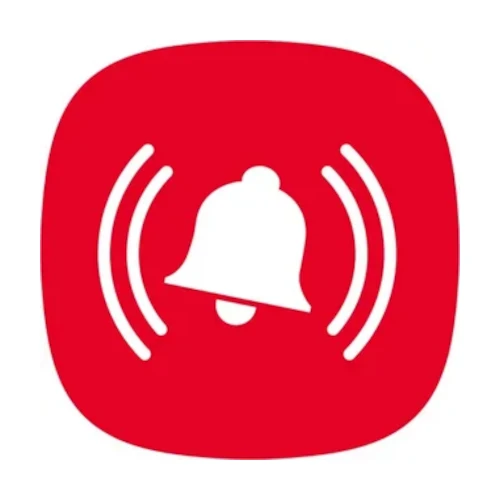
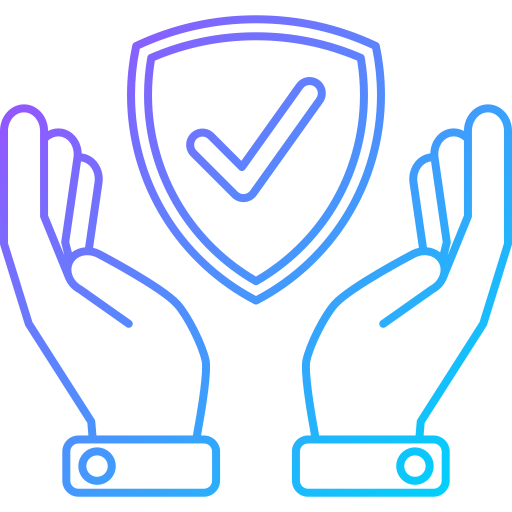
Updates

diff --git a/404.html b/404.html
@@ -1,8 +1,8 @@
-<!doctype html><html lang="ru"><head><meta charset="UTF-8"/><meta name="viewport" content="width=device-width,user-scalable=no,initial-scale=1,maximum-scale=1,minimum-scale=1,viewport-fit=cover"/><meta http-equiv="X-UA-Compatible" content="ie=edge"/><title>Сервисы региона</title><meta property="og:description" content="Сервисы региона"/><meta name="theme-color" content="#000"/><script src="https://st.max.ru/js/max-web-app.js"></script><link rel="preload" href="/ryazanskaya_oblast_bot/static/fonts/SFProText-Regular.woff2" as="font" type="font/woff2" crossorigin="anonymous"/><link rel="preload" href="/ryazanskaya_oblast_bot/static/fonts/SFProText-Medium.woff2" as="font" type="font/woff2" crossorigin="anonymous"/><link rel="preload" href="/ryazanskaya_oblast_bot/static/fonts/SFProText-Semibold.woff2" as="font" type="font/woff2" crossorigin="anonymous"/><link rel="preload" href="https://public-data.hb.bizmrg.com/fonts/VKSansDisplay/VKSansDisplay-Medium.woff2" as="font" type="font/woff2" crossorigin="anonymous"/><link rel="preload" href="https://public-data.hb.bizmrg.com/fonts/VKSansDisplay/VKSansDisplay-DemiBold.woff2" as="font" type="font/woff2" crossorigin="anonymous"/><style>@font-face{font-family:"Max Sans";src:local("Max Sans"),url("/ryazanskaya_oblast_bot/static/fonts/MaxSans-Regular.ttf") format("truetype");font-weight:400;font-style:normal;font-display:swap}@font-face{font-family:"Max Sans";src:local("Max Sans"),url("/ryazanskaya_oblast_bot/static/fonts/MaxSans-Medium.ttf") format("truetype");font-weight:500;font-style:normal;font-display:swap}@font-face{font-family:"SF Pro Text";src:local("SF Pro Text"),url("/ryazanskaya_oblast_bot/static/fonts/SFProText-Regular.woff2") format("woff2");font-weight:400;font-style:normal;font-display:swap}@font-face{font-family:"SF Pro Text";src:local("SF Pro Text"),url("/ryazanskaya_oblast_bot/static/fonts/SFProText-Medium.woff2") format("woff2");font-weight:500;font-style:normal;font-display:swap}@font-face{font-family:"SF Pro Text";src:local("SF Pro Text"),url("/ryazanskaya_oblast_bot/static/fonts/SFProText-Semibold.woff2") format("woff2");font-weight:600;font-style:normal;font-display:swap}@font-face{font-family:"VK Sans Display";src:local("VK Sans Display"),url("https://public-data.hb.bizmrg.com/fonts/VKSansDisplay/VKSansDisplay-Medium.woff2") format("woff2");font-weight:500;font-style:normal;font-display:swap}@font-face{font-family:"VK Sans Display";src:local("VK Sans Display"),url("https://public-data.hb.bizmrg.com/fonts/VKSansDisplay/VKSansDisplay-DemiBold.woff2") format("woff2");font-weight:600;font-style:normal;font-display:swap}</style><script type="module" crossorigin src="/ryazanskaya_oblast_bot/static/index-BUzAMyro.js"></script><link rel="stylesheet" crossorigin href="/ryazanskaya_oblast_bot/static/index-ecivMr12.css"><script type="module">import.meta.url;import("_").catch(()=>1);(async function*(){})().next();if(location.protocol!="file:"){window.__vite_is_modern_browser=true}</script><script type="module">!function(){if(window.__vite_is_modern_browser)return;console.warn("vite: loading legacy chunks, syntax error above and the same error below should be ignored");var e=document.getElementById("vite-legacy-polyfill"),n=document.createElement("script");n.src=e.src,n.onload=function(){System.import(document.getElementById('vite-legacy-entry').getAttribute('data-src'))},document.body.appendChild(n)}();</script></head><body><script>(function () {
+<!doctype html><html lang="ru"><head><meta charset="UTF-8"/><meta name="viewport" content="width=device-width,user-scalable=no,initial-scale=1,maximum-scale=1,minimum-scale=1,viewport-fit=cover"/><meta http-equiv="X-UA-Compatible" content="ie=edge"/><title>Сервисы региона</title><meta property="og:description" content="Сервисы региона"/><meta name="theme-color" content="#000"/><script src="https://st.max.ru/js/max-web-app.js"></script><link rel="preload" href="/ryazanskaya_oblast_bot/static/fonts/SFProText-Regular.woff2" as="font" type="font/woff2" crossorigin="anonymous"/><link rel="preload" href="/ryazanskaya_oblast_bot/static/fonts/SFProText-Medium.woff2" as="font" type="font/woff2" crossorigin="anonymous"/><link rel="preload" href="/ryazanskaya_oblast_bot/static/fonts/SFProText-Semibold.woff2" as="font" type="font/woff2" crossorigin="anonymous"/><link rel="preload" href="https://public-data.hb.bizmrg.com/fonts/VKSansDisplay/VKSansDisplay-Medium.woff2" as="font" type="font/woff2" crossorigin="anonymous"/><link rel="preload" href="https://public-data.hb.bizmrg.com/fonts/VKSansDisplay/VKSansDisplay-DemiBold.woff2" as="font" type="font/woff2" crossorigin="anonymous"/><style>@font-face{font-family:"Max Sans";src:local("Max Sans"),url("/ryazanskaya_oblast_bot/static/fonts/MaxSans-Regular.ttf") format("truetype");font-weight:400;font-style:normal;font-display:swap}@font-face{font-family:"Max Sans";src:local("Max Sans"),url("/ryazanskaya_oblast_bot/static/fonts/MaxSans-Medium.ttf") format("truetype");font-weight:500;font-style:normal;font-display:swap}@font-face{font-family:"SF Pro Text";src:local("SF Pro Text"),url("/ryazanskaya_oblast_bot/static/fonts/SFProText-Regular.woff2") format("woff2");font-weight:400;font-style:normal;font-display:swap}@font-face{font-family:"SF Pro Text";src:local("SF Pro Text"),url("/ryazanskaya_oblast_bot/static/fonts/SFProText-Medium.woff2") format("woff2");font-weight:500;font-style:normal;font-display:swap}@font-face{font-family:"SF Pro Text";src:local("SF Pro Text"),url("/ryazanskaya_oblast_bot/static/fonts/SFProText-Semibold.woff2") format("woff2");font-weight:600;font-style:normal;font-display:swap}@font-face{font-family:"VK Sans Display";src:local("VK Sans Display"),url("https://public-data.hb.bizmrg.com/fonts/VKSansDisplay/VKSansDisplay-Medium.woff2") format("woff2");font-weight:500;font-style:normal;font-display:swap}@font-face{font-family:"VK Sans Display";src:local("VK Sans Display"),url("https://public-data.hb.bizmrg.com/fonts/VKSansDisplay/VKSansDisplay-DemiBold.woff2") format("woff2");font-weight:600;font-style:normal;font-display:swap}</style><script type="module" crossorigin src="/ryazanskaya_oblast_bot/static/index-8lGLBzcs.js"></script><link rel="stylesheet" crossorigin href="/ryazanskaya_oblast_bot/static/index-ecivMr12.css"><script type="module">import.meta.url;import("_").catch(()=>1);(async function*(){})().next();if(location.protocol!="file:"){window.__vite_is_modern_browser=true}</script><script type="module">!function(){if(window.__vite_is_modern_browser)return;console.warn("vite: loading legacy chunks, syntax error above and the same error below should be ignored");var e=document.getElementById("vite-legacy-polyfill"),n=document.createElement("script");n.src=e.src,n.onload=function(){System.import(document.getElementById('vite-legacy-entry').getAttribute('data-src'))},document.body.appendChild(n)}();</script></head><body><script>(function () {
         var isDev = 'false';
         var url = new URL(window.location.href);
         if (isDev && !url.searchParams.has('tmr_debug')) {
           url.searchParams.set('tmr_debug', '1');
           window.location.replace(url.toString());
         }
-      })();</script><div id="root"></div><div id="modal"></div><script nomodule>!function(){var e=document,t=e.createElement("script");if(!("noModule"in t)&&"onbeforeload"in t){var n=!1;e.addEventListener("beforeload",(function(e){if(e.target===t)n=!0;else if(!e.target.hasAttribute("nomodule")||!n)return;e.preventDefault()}),!0),t.type="module",t.src=".",e.head.appendChild(t),t.remove()}}();</script><script nomodule crossorigin id="vite-legacy-polyfill" src="/ryazanskaya_oblast_bot/static/polyfills-legacy-DVAFCpP-.js"></script><script nomodule crossorigin id="vite-legacy-entry" data-src="/ryazanskaya_oblast_bot/static/index-legacy-BmbIadwP.js">System.import(document.getElementById('vite-legacy-entry').getAttribute('data-src'))</script></body></html>
+      })();</script><div id="root"></div><div id="modal"></div><script nomodule>!function(){var e=document,t=e.createElement("script");if(!("noModule"in t)&&"onbeforeload"in t){var n=!1;e.addEventListener("beforeload",(function(e){if(e.target===t)n=!0;else if(!e.target.hasAttribute("nomodule")||!n)return;e.preventDefault()}),!0),t.type="module",t.src=".",e.head.appendChild(t),t.remove()}}();</script><script nomodule crossorigin id="vite-legacy-polyfill" src="/ryazanskaya_oblast_bot/static/polyfills-legacy-DVAFCpP-.js"></script><script nomodule crossorigin id="vite-legacy-entry" data-src="/ryazanskaya_oblast_bot/static/index-legacy-C-Urdjbc.js">System.import(document.getElementById('vite-legacy-entry').getAttribute('data-src'))</script></body></html>

diff --git a/index.html b/index.html
@@ -1,8 +1,8 @@
-<!doctype html><html lang="ru"><head><meta charset="UTF-8"/><meta name="viewport" content="width=device-width,user-scalable=no,initial-scale=1,maximum-scale=1,minimum-scale=1,viewport-fit=cover"/><meta http-equiv="X-UA-Compatible" content="ie=edge"/><title>Сервисы региона</title><meta property="og:description" content="Сервисы региона"/><meta name="theme-color" content="#000"/><script src="https://st.max.ru/js/max-web-app.js"></script><link rel="preload" href="/ryazanskaya_oblast_bot/static/fonts/SFProText-Regular.woff2" as="font" type="font/woff2" crossorigin="anonymous"/><link rel="preload" href="/ryazanskaya_oblast_bot/static/fonts/SFProText-Medium.woff2" as="font" type="font/woff2" crossorigin="anonymous"/><link rel="preload" href="/ryazanskaya_oblast_bot/static/fonts/SFProText-Semibold.woff2" as="font" type="font/woff2" crossorigin="anonymous"/><link rel="preload" href="https://public-data.hb.bizmrg.com/fonts/VKSansDisplay/VKSansDisplay-Medium.woff2" as="font" type="font/woff2" crossorigin="anonymous"/><link rel="preload" href="https://public-data.hb.bizmrg.com/fonts/VKSansDisplay/VKSansDisplay-DemiBold.woff2" as="font" type="font/woff2" crossorigin="anonymous"/><style>@font-face{font-family:"Max Sans";src:local("Max Sans"),url("/ryazanskaya_oblast_bot/static/fonts/MaxSans-Regular.ttf") format("truetype");font-weight:400;font-style:normal;font-display:swap}@font-face{font-family:"Max Sans";src:local("Max Sans"),url("/ryazanskaya_oblast_bot/static/fonts/MaxSans-Medium.ttf") format("truetype");font-weight:500;font-style:normal;font-display:swap}@font-face{font-family:"SF Pro Text";src:local("SF Pro Text"),url("/ryazanskaya_oblast_bot/static/fonts/SFProText-Regular.woff2") format("woff2");font-weight:400;font-style:normal;font-display:swap}@font-face{font-family:"SF Pro Text";src:local("SF Pro Text"),url("/ryazanskaya_oblast_bot/static/fonts/SFProText-Medium.woff2") format("woff2");font-weight:500;font-style:normal;font-display:swap}@font-face{font-family:"SF Pro Text";src:local("SF Pro Text"),url("/ryazanskaya_oblast_bot/static/fonts/SFProText-Semibold.woff2") format("woff2");font-weight:600;font-style:normal;font-display:swap}@font-face{font-family:"VK Sans Display";src:local("VK Sans Display"),url("https://public-data.hb.bizmrg.com/fonts/VKSansDisplay/VKSansDisplay-Medium.woff2") format("woff2");font-weight:500;font-style:normal;font-display:swap}@font-face{font-family:"VK Sans Display";src:local("VK Sans Display"),url("https://public-data.hb.bizmrg.com/fonts/VKSansDisplay/VKSansDisplay-DemiBold.woff2") format("woff2");font-weight:600;font-style:normal;font-display:swap}</style><script type="module" crossorigin src="/ryazanskaya_oblast_bot/static/index-BUzAMyro.js"></script><link rel="stylesheet" crossorigin href="/ryazanskaya_oblast_bot/static/index-ecivMr12.css"><script type="module">import.meta.url;import("_").catch(()=>1);(async function*(){})().next();if(location.protocol!="file:"){window.__vite_is_modern_browser=true}</script><script type="module">!function(){if(window.__vite_is_modern_browser)return;console.warn("vite: loading legacy chunks, syntax error above and the same error below should be ignored");var e=document.getElementById("vite-legacy-polyfill"),n=document.createElement("script");n.src=e.src,n.onload=function(){System.import(document.getElementById('vite-legacy-entry').getAttribute('data-src'))},document.body.appendChild(n)}();</script></head><body><script>(function () {
+<!doctype html><html lang="ru"><head><meta charset="UTF-8"/><meta name="viewport" content="width=device-width,user-scalable=no,initial-scale=1,maximum-scale=1,minimum-scale=1,viewport-fit=cover"/><meta http-equiv="X-UA-Compatible" content="ie=edge"/><title>Сервисы региона</title><meta property="og:description" content="Сервисы региона"/><meta name="theme-color" content="#000"/><script src="https://st.max.ru/js/max-web-app.js"></script><link rel="preload" href="/ryazanskaya_oblast_bot/static/fonts/SFProText-Regular.woff2" as="font" type="font/woff2" crossorigin="anonymous"/><link rel="preload" href="/ryazanskaya_oblast_bot/static/fonts/SFProText-Medium.woff2" as="font" type="font/woff2" crossorigin="anonymous"/><link rel="preload" href="/ryazanskaya_oblast_bot/static/fonts/SFProText-Semibold.woff2" as="font" type="font/woff2" crossorigin="anonymous"/><link rel="preload" href="https://public-data.hb.bizmrg.com/fonts/VKSansDisplay/VKSansDisplay-Medium.woff2" as="font" type="font/woff2" crossorigin="anonymous"/><link rel="preload" href="https://public-data.hb.bizmrg.com/fonts/VKSansDisplay/VKSansDisplay-DemiBold.woff2" as="font" type="font/woff2" crossorigin="anonymous"/><style>@font-face{font-family:"Max Sans";src:local("Max Sans"),url("/ryazanskaya_oblast_bot/static/fonts/MaxSans-Regular.ttf") format("truetype");font-weight:400;font-style:normal;font-display:swap}@font-face{font-family:"Max Sans";src:local("Max Sans"),url("/ryazanskaya_oblast_bot/static/fonts/MaxSans-Medium.ttf") format("truetype");font-weight:500;font-style:normal;font-display:swap}@font-face{font-family:"SF Pro Text";src:local("SF Pro Text"),url("/ryazanskaya_oblast_bot/static/fonts/SFProText-Regular.woff2") format("woff2");font-weight:400;font-style:normal;font-display:swap}@font-face{font-family:"SF Pro Text";src:local("SF Pro Text"),url("/ryazanskaya_oblast_bot/static/fonts/SFProText-Medium.woff2") format("woff2");font-weight:500;font-style:normal;font-display:swap}@font-face{font-family:"SF Pro Text";src:local("SF Pro Text"),url("/ryazanskaya_oblast_bot/static/fonts/SFProText-Semibold.woff2") format("woff2");font-weight:600;font-style:normal;font-display:swap}@font-face{font-family:"VK Sans Display";src:local("VK Sans Display"),url("https://public-data.hb.bizmrg.com/fonts/VKSansDisplay/VKSansDisplay-Medium.woff2") format("woff2");font-weight:500;font-style:normal;font-display:swap}@font-face{font-family:"VK Sans Display";src:local("VK Sans Display"),url("https://public-data.hb.bizmrg.com/fonts/VKSansDisplay/VKSansDisplay-DemiBold.woff2") format("woff2");font-weight:600;font-style:normal;font-display:swap}</style><script type="module" crossorigin src="/ryazanskaya_oblast_bot/static/index-8lGLBzcs.js"></script><link rel="stylesheet" crossorigin href="/ryazanskaya_oblast_bot/static/index-ecivMr12.css"><script type="module">import.meta.url;import("_").catch(()=>1);(async function*(){})().next();if(location.protocol!="file:"){window.__vite_is_modern_browser=true}</script><script type="module">!function(){if(window.__vite_is_modern_browser)return;console.warn("vite: loading legacy chunks, syntax error above and the same error below should be ignored");var e=document.getElementById("vite-legacy-polyfill"),n=document.createElement("script");n.src=e.src,n.onload=function(){System.import(document.getElementById('vite-legacy-entry').getAttribute('data-src'))},document.body.appendChild(n)}();</script></head><body><script>(function () {
         var isDev = 'false';
         var url = new URL(window.location.href);
         if (isDev && !url.searchParams.has('tmr_debug')) {
           url.searchParams.set('tmr_debug', '1');
           window.location.replace(url.toString());
         }
-      })();</script><div id="root"></div><div id="modal"></div><script nomodule>!function(){var e=document,t=e.createElement("script");if(!("noModule"in t)&&"onbeforeload"in t){var n=!1;e.addEventListener("beforeload",(function(e){if(e.target===t)n=!0;else if(!e.target.hasAttribute("nomodule")||!n)return;e.preventDefault()}),!0),t.type="module",t.src=".",e.head.appendChild(t),t.remove()}}();</script><script nomodule crossorigin id="vite-legacy-polyfill" src="/ryazanskaya_oblast_bot/static/polyfills-legacy-DVAFCpP-.js"></script><script nomodule crossorigin id="vite-legacy-entry" data-src="/ryazanskaya_oblast_bot/static/index-legacy-BmbIadwP.js">System.import(document.getElementById('vite-legacy-entry').getAttribute('data-src'))</script></body></html>
+      })();</script><div id="root"></div><div id="modal"></div><script nomodule>!function(){var e=document,t=e.createElement("script");if(!("noModule"in t)&&"onbeforeload"in t){var n=!1;e.addEventListener("beforeload",(function(e){if(e.target===t)n=!0;else if(!e.target.hasAttribute("nomodule")||!n)return;e.preventDefault()}),!0),t.type="module",t.src=".",e.head.appendChild(t),t.remove()}}();</script><script nomodule crossorigin id="vite-legacy-polyfill" src="/ryazanskaya_oblast_bot/static/polyfills-legacy-DVAFCpP-.js"></script><script nomodule crossorigin id="vite-legacy-entry" data-src="/ryazanskaya_oblast_bot/static/index-legacy-C-Urdjbc.js">System.import(document.getElementById('vite-legacy-entry').getAttribute('data-src'))</script></body></html>